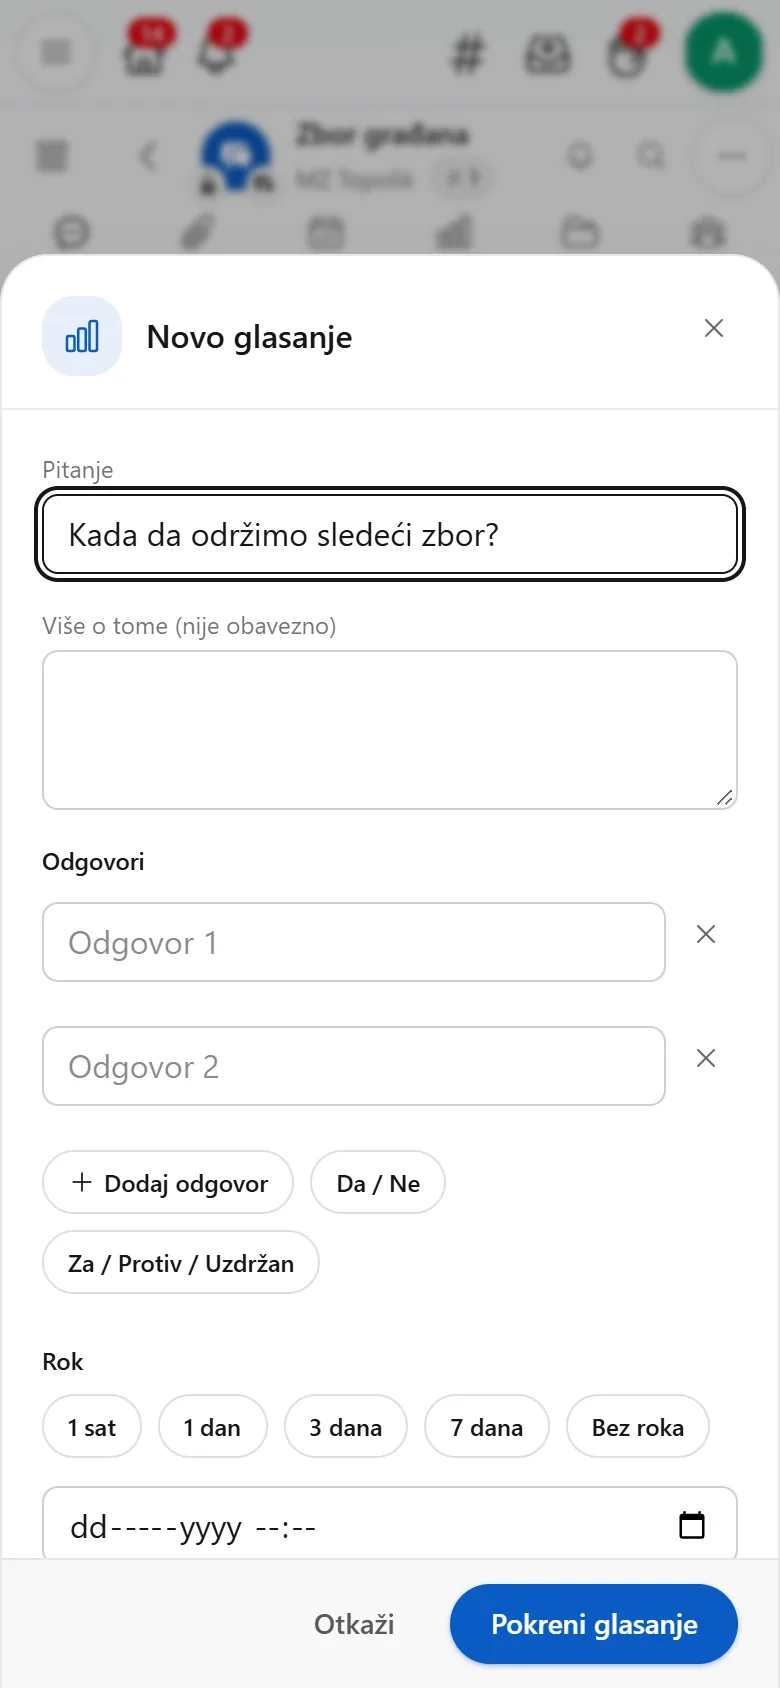
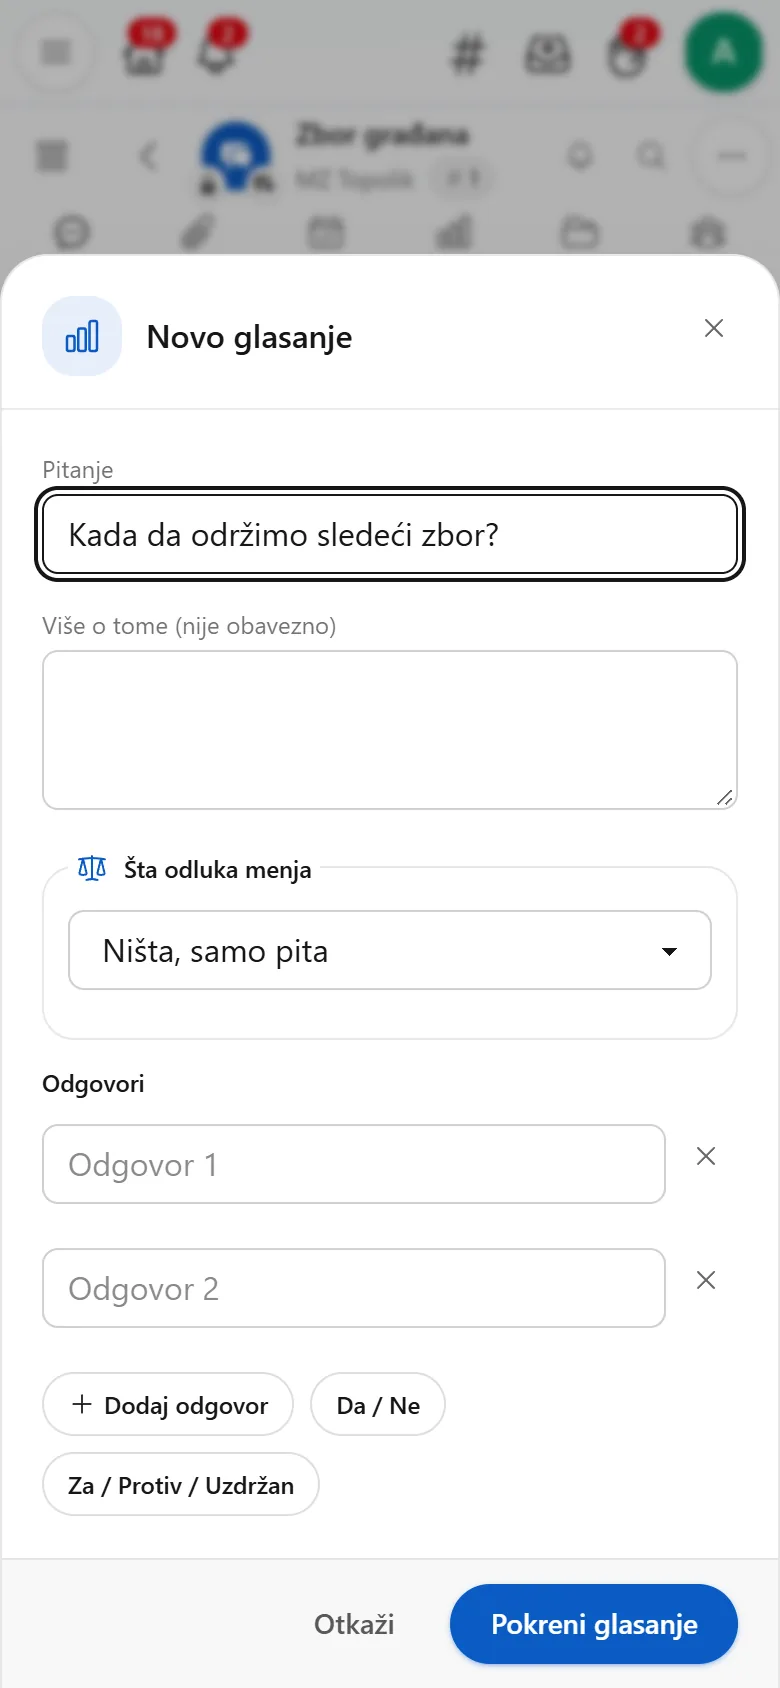
Give nothing a member holds through the parent, and show the decision in the help
A decision that gives a member a role they already hold through the
parent met the inherited row: the upsert left it alone, and Ecto took the
untouched row for a stale one, so the savepoint rolled the decision back
and the card said only that it was not done. It now says the role is held
through the parent, for a grant and for an election alike. A check in the
browser found it, with a member of the council voted onto it in the
assembly below.

The pictures of the poll form, the form with a quorum and the access
settings are taken again, as the form now asks what a decision changes
and the settings hold the election of admins, and a new one shows a
poll that gives a member a role.

diff --git a/priv/static/HELP.sr_Cyrl.md b/priv/static/HELP.sr_Cyrl.md
@@ -323,6 +323,8 @@ Pravila (PotokIdeWeb.HelpMarkdown):
 
 Гласачи на картици гласања, пре него што гласају, виде шта ће се десити, рецимо „Ако прође: @марко добија улогу Администратор“. Кад се гласање заврши на року, оно што одлука каже се одмах спроведе, а на картици пише шта је од тога било: спроведено, није прошло, члан више није у групи или би група остала без администратора. Ко добије или изгуби улогу, добија и обавештење.
 
+![Гласање које члану додељује улогу](glasanje-odluka)
+
 Такво гласање држи иста правила за све:
 
 - гласа цела група, а одлучује већина уз кворум, па се рок и кворум морају задати;

diff --git a/priv/static/HELP.en.md b/priv/static/HELP.en.md
@@ -317,6 +317,8 @@ A poll can also decide who holds which role. In the form, under **What the decis
 
 Voters see on the poll's card, before they vote, what will happen, say "If it passes: @marko gets the role Admin". When the poll ends at its deadline, what the decision says is done at once, and the card says what came of it: done, did not pass, the member is no longer in the group, or the group would be left without an admin. Whoever gets or loses the role is also notified.
 
+![A poll that gives a member a role](glasanje-odluka)
+
 Such a poll keeps the same rules for everyone:
 
 - the whole group votes, and a majority decides with a quorum, so the deadline and the quorum must be set;

diff --git a/priv/static/HELP.sr.md b/priv/static/HELP.sr.md
@@ -323,6 +323,8 @@ Glasanje može i da odluči ko ima koju ulogu. U formi, pod **Šta odluka menja*
 
 Glasači na kartici glasanja, pre nego što glasaju, vide šta će se desiti, recimo „Ako prođe: @marko dobija ulogu Administrator“. Kad se glasanje završi na roku, ono što odluka kaže se odmah sprovede, a na kartici piše šta je od toga bilo: sprovedeno, nije prošlo, član više nije u grupi ili bi grupa ostala bez administratora. Ko dobije ili izgubi ulogu, dobija i obaveštenje.
 
+![Glasanje koje članu dodeljuje ulogu](glasanje-odluka)
+
 Takvo glasanje drži ista pravila za sve:
 
 - glasa cela grupa, a odlučuje većina uz kvorum, pa se rok i kvorum moraju zadati;
